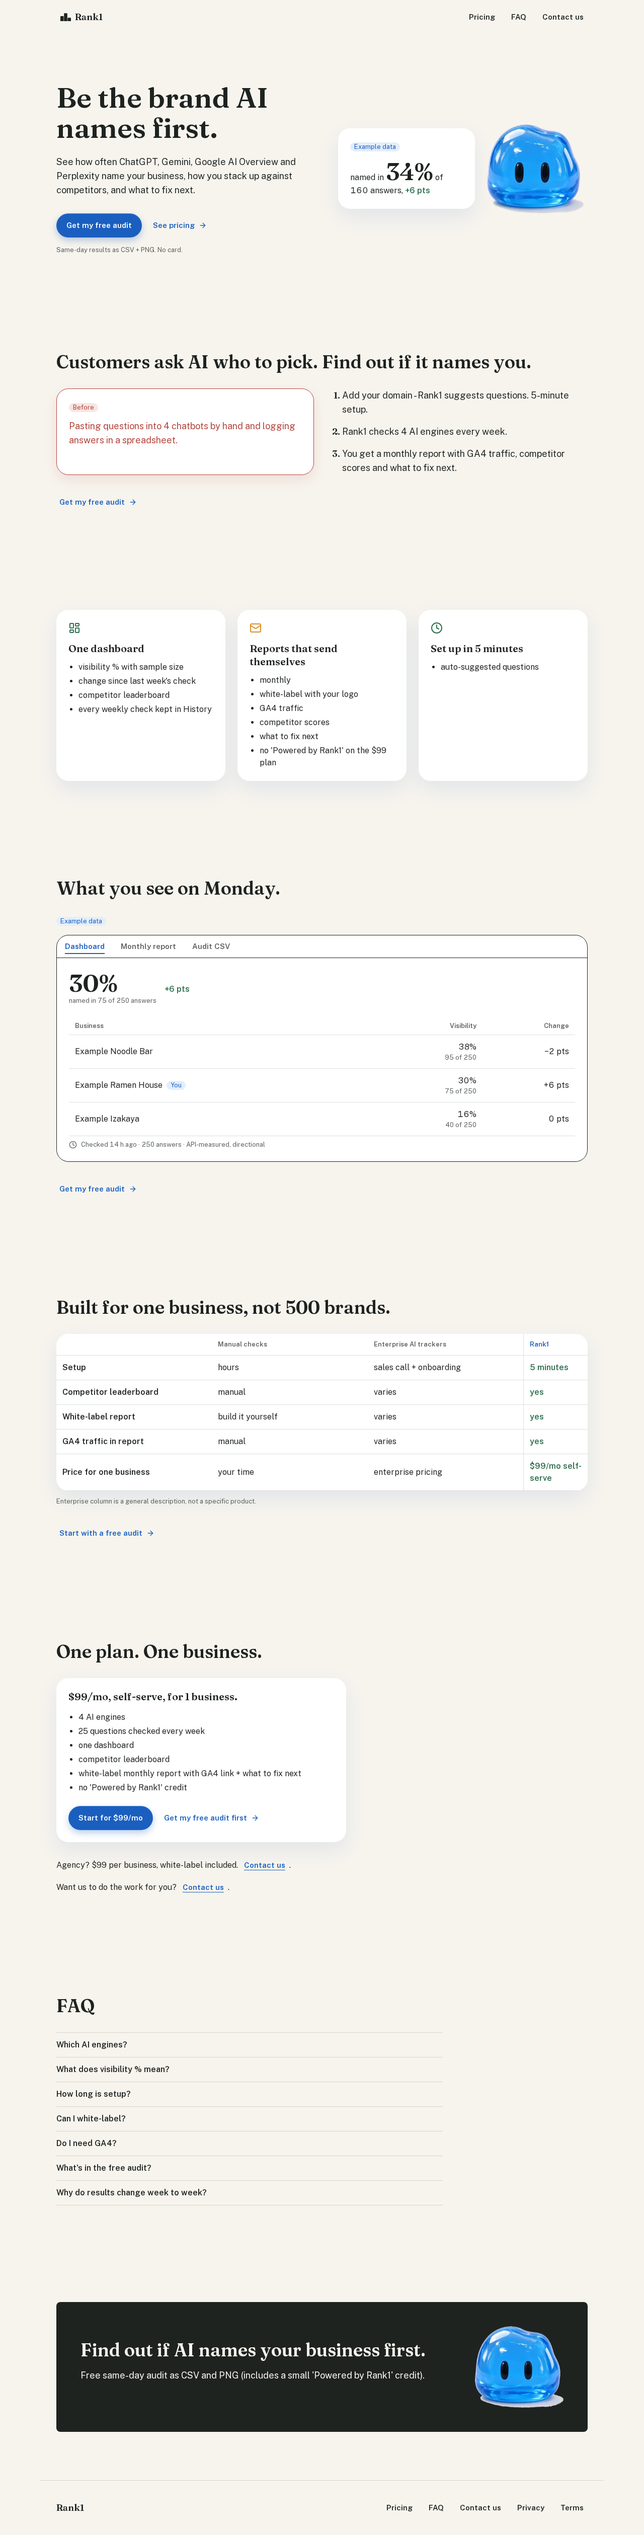
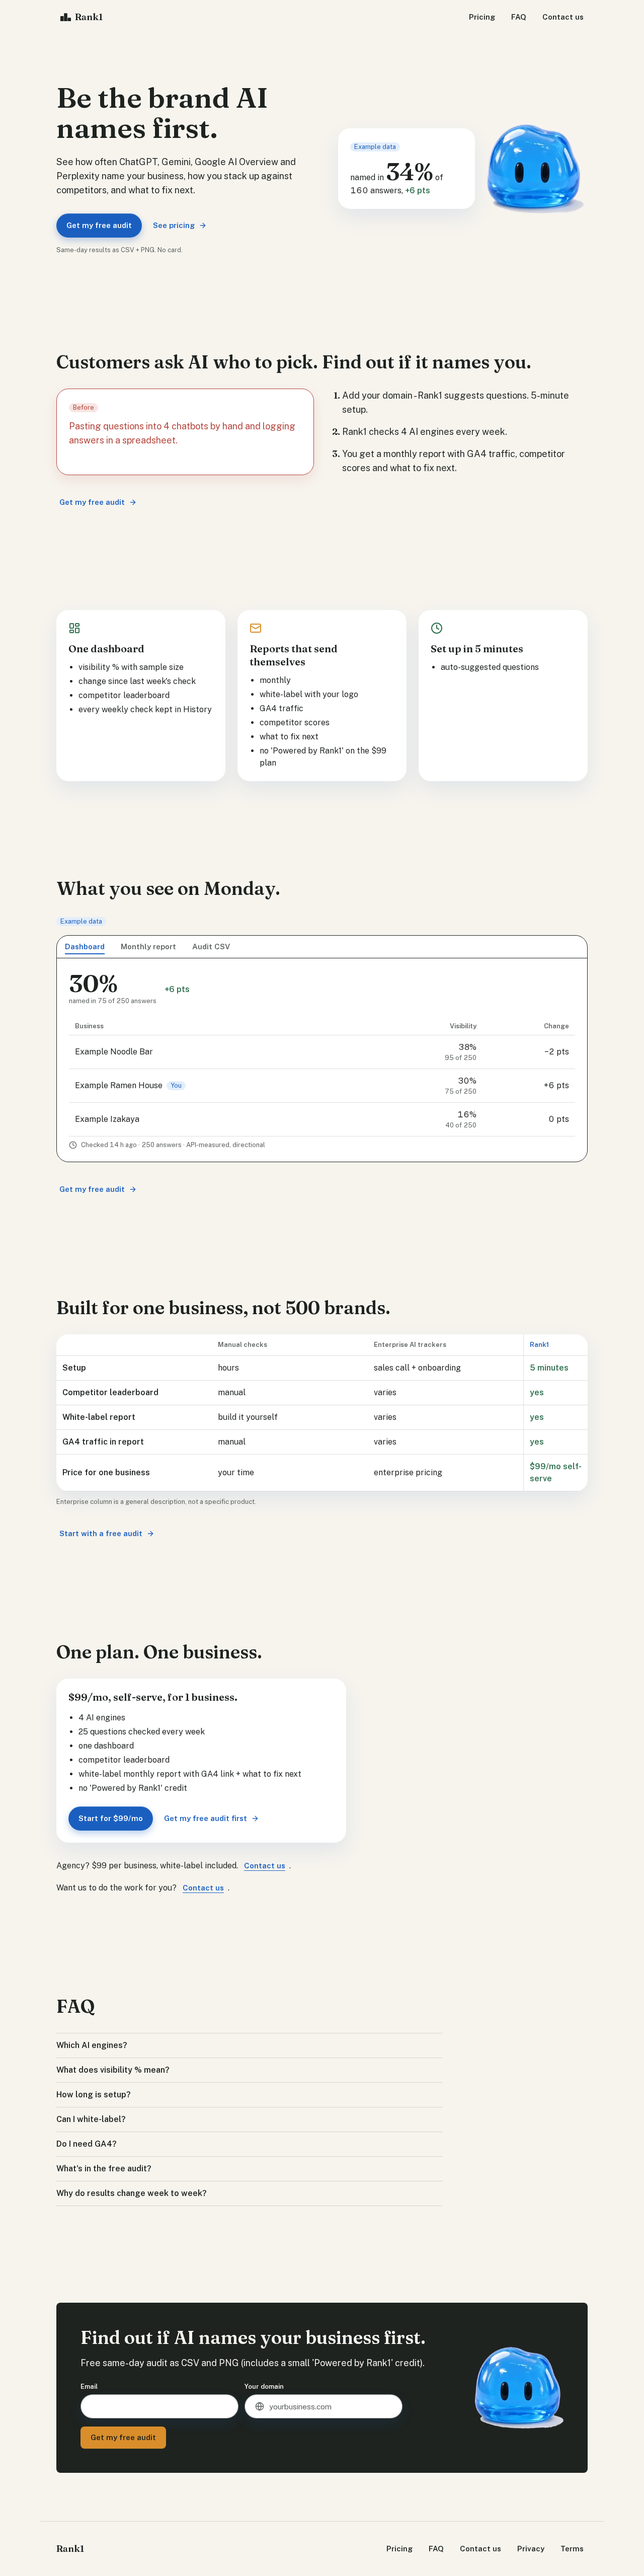
step 2a: landing page uses AuditRequestForm and ContactUsLink

diff --git a/tests/e2e/landing.spec.ts b/tests/e2e/landing.spec.ts
@@ -196,8 +196,41 @@ test("links point at the right places", async ({ page }) => {
   await expect(page.locator("#pricing").getByRole("link", { name: "Start for $99/mo" })).toHaveAttribute("href", "/sign-in");
   await expect(page.locator("#pricing").getByRole("link", { name: "Get my free audit first" })).toHaveAttribute("href", "#audit");
   await expect(page.locator("#comparison").getByRole("link", { name: "Start with a free audit" })).toHaveAttribute("href", "#audit");
-  await expect(page.locator("#audit [data-slot='audit-form']")).toHaveCount(1);
+  await expect(page.locator("#audit form")).toHaveCount(1);
+  for (const link of await page.getByRole("link", { name: "Contact us" }).all()) await expect(link).toHaveAttribute("href", "/contact");
   const footer = page.locator("footer").getByRole("link");
   await expect(footer).toHaveText(["Pricing", "FAQ", "Contact us", "Privacy", "Terms"]);
   await expect(page.locator("body")).not.toContainText("@");
+});
+
+test("#audit holds the real audit form on the ink band; a mocked 202 shows success", async ({ page }) => {
+  // No live calls: the API route is mocked at the network boundary.
+  let body: Record<string, string> | null = null;
+  await page.route("**/api/audit/request", async (route) => {
+    body = route.request().postDataJSON();
+    await route.fulfill({ status: 202, contentType: "application/json", body: "{}" });
+  });
+  await page.goto("/");
+  const audit = page.locator("#audit");
+  await expect(audit.getByLabel("Email")).toBeVisible();
+  await expect(audit.getByLabel("Your domain")).toBeVisible();
+  const submit = audit.getByRole("button", { name: "Get my free audit" });
+  expect(await submit.evaluate((el) => getComputedStyle(el).backgroundColor)).toBe("rgb(217, 142, 43)");
+  await audit.getByLabel("Email").fill("owner@example.com");
+  await audit.getByLabel("Your domain").fill("ramenhouse.com");
+  await submit.click();
+  await expect(audit.getByRole("status")).toHaveText("Got it. We'll email your audit to owner@example.com.");
+  expect(body).toMatchObject({ email: "owner@example.com", domain: "ramenhouse.com" });
+});
+
+test("Contact us in the header, pricing and footer opens the Contact us dialog", async ({ page }) => {
+  await page.goto("/");
+  for (const where of ["header", "#pricing", "footer"]) {
+    await page.locator(where).getByRole("link", { name: "Contact us" }).first().click();
+    const dialog = page.getByRole("dialog", { name: "Contact us" });
+    await expect(dialog).toBeVisible();
+    await page.keyboard.press("Escape");
+    await expect(dialog).toHaveCount(0);
+  }
+  await expect(page).toHaveURL(/\/$/);
 });

diff --git a/src/components/site/FinalCta.tsx b/src/components/site/FinalCta.tsx
@@ -1,3 +1,4 @@
+import { AuditRequestForm } from "@/components/forms/AuditRequestForm";
 import { Jelly } from "@/components/ui/Jelly";
 import { container } from "./Section";
 
@@ -10,8 +11,9 @@ export function FinalCta() {
             Find out if AI names your business first.
           </h2>
           <p className="mt-4 text-body-lg">Free same-day audit as CSV and PNG (includes a small &apos;Powered by Rank1&apos; credit).</p>
-          {/* AuditRequestForm (step2-forms) goes here. */}
-          <div data-slot="audit-form" className="mt-6" />
+          <div className="mt-6">
+            <AuditRequestForm />
+          </div>
         </div>
         {/* Second Jelly on the page, so alt="". Eyes up; hidden on mobile. */}
         <Jelly size={180} decorative className="hidden h-auto w-44 shrink-0 md:block" />

diff --git a/src/components/site/Footer.tsx b/src/components/site/Footer.tsx
@@ -1,3 +1,4 @@
+import { ContactUsLink } from "@/components/contact/ContactUsLink";
 import { navLink } from "./Header";
 import { container } from "./Section";
 
@@ -9,7 +10,7 @@ export function Footer() {
       <nav aria-label="Footer" className="flex flex-wrap gap-x-4">
         <a href="#pricing" className={navLink}>Pricing</a>
         <a href="#faq" className={navLink}>FAQ</a>
-        <a href="/contact" className={navLink}>Contact us</a>
+        <ContactUsLink className={navLink}>Contact us</ContactUsLink>
         <a href="/privacy" className={navLink}>Privacy</a>
         <a href="/terms" className={navLink}>Terms</a>
       </nav>

diff --git a/src/components/site/Header.tsx b/src/components/site/Header.tsx
@@ -1,4 +1,5 @@
 import Link from "next/link";
+import { ContactUsLink } from "@/components/contact/ContactUsLink";
 import { Logo } from "@/components/ui/Logo";
 import { container } from "./Section";
 
@@ -14,7 +15,7 @@ export function Header() {
       <nav aria-label="Main" className="flex items-center gap-1 md:gap-4">
         <a href="#pricing" className={navLink}>Pricing</a>
         <a href="#faq" className={navLink}>FAQ</a>
-        <a href="/contact" className={navLink}>Contact us</a>
+        <ContactUsLink className={navLink}>Contact us</ContactUsLink>
       </nav>
     </header>
   );

diff --git a/src/components/site/Pricing.tsx b/src/components/site/Pricing.tsx
@@ -1,3 +1,4 @@
+import { ContactUsLink } from "@/components/contact/ContactUsLink";
 import { Button } from "@/components/ui/Button";
 import { navLink } from "./Header";
 import { Section } from "./Section";
@@ -11,12 +12,9 @@ const includes = [
   "no 'Powered by Rank1' credit",
 ];
 
-// Swapped for ContactUsLink when step2-forms lands.
 const contact = (
   <>
-    <a href="/contact" className={`${navLink} px-0 text-jellyDeep underline`}>
-      Contact us
-    </a>
+    <ContactUsLink className={`${navLink} px-0 text-jellyDeep underline`}>Contact us</ContactUsLink>
     {"."}
   </>
 );

diff --git a/PROGRESS.md b/PROGRESS.md
@@ -120,4 +120,4 @@ Doc differences / decisions
 Known gaps
 - "Start for $99/mo" links to /sign-in, which doesn't exist yet (auth step).
 - OG image is [PLACEHOLDER], so og:image is omitted until a real image exists.
-- The audit form is a `<div data-slot="audit-form" />` placeholder and the Contact us links are plain href="/contact" until step2-forms lands. /privacy and /terms come from step2-forms.
+- Merged origin/step2-forms (366ebf4). #audit renders AuditRequestForm, and every Contact us link is a ContactUsLink. The e2e tests mock /api/audit/request. The /api routes, /contact, /privacy and /terms come later on step2-forms.
